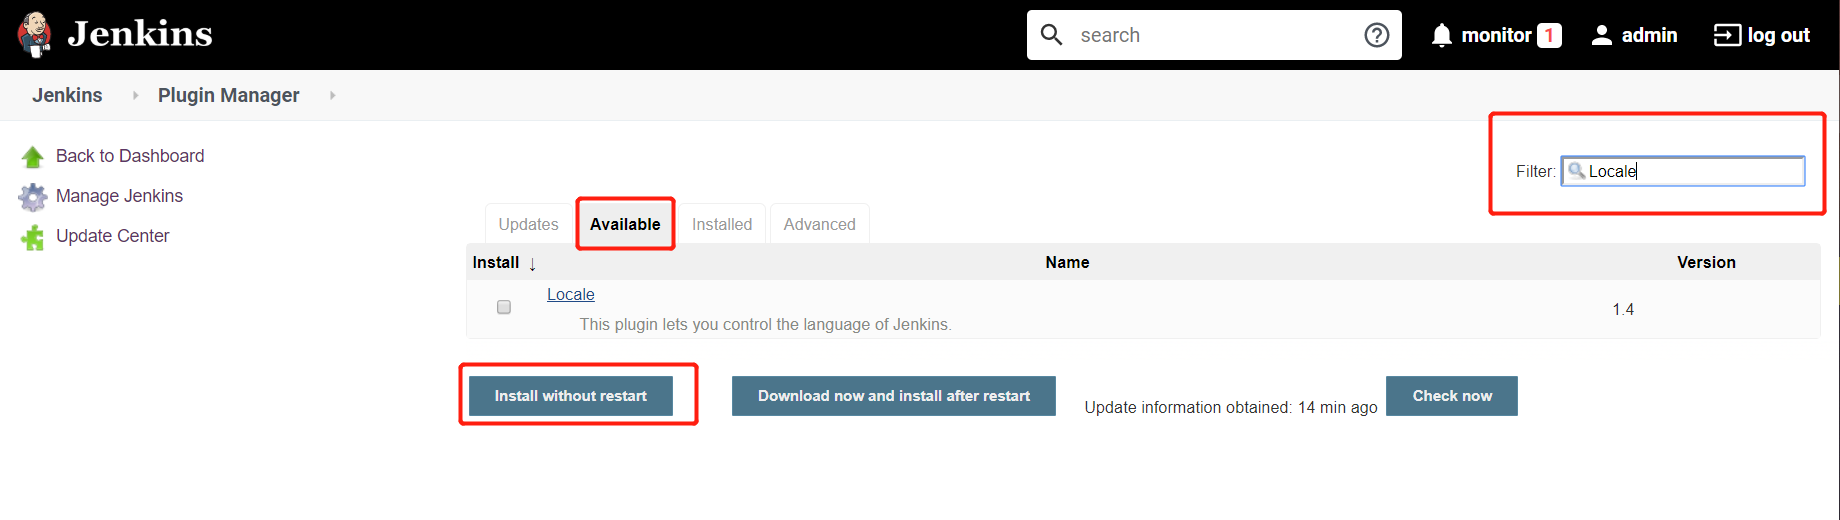
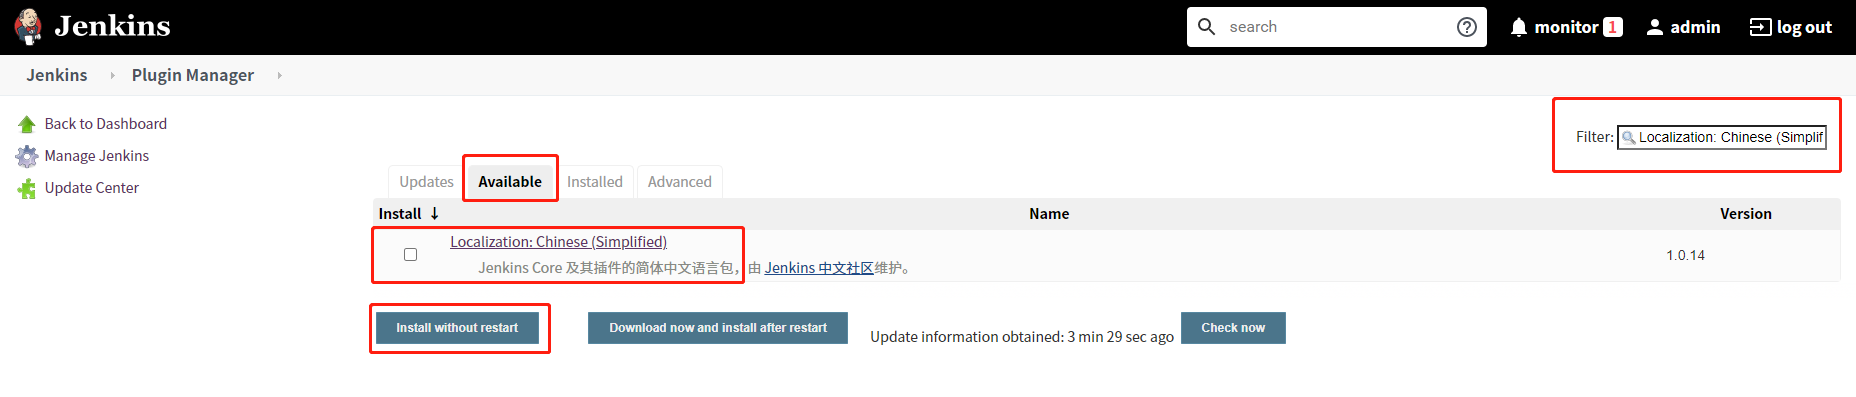
更新jenkins

diff --git a/运维部署篇/02、从零玩转前端部署-使用Jenkins进行自动构建和持续集成(进阶篇)/从零玩转前端部署-使用Jenkins进行自动构建和持续集成(进阶篇).md b/运维部署篇/02、从零玩转前端部署-使用Jenkins进行自动构建和持续集成(进阶篇)/从零玩转前端部署-使用Jenkins进行自动构建和持续集成(进阶篇).md
@@ -1,46 +1,62 @@
-本系列上一篇主要讲了利用Nginx进行简单的静态资源部署，这种方式需要在代码更新以后手动的把代码重新上传到服务器进行部署，方式比较原始。在现代的敏捷式的软件开发和管理中，产品需要快速的进行更新和迭代，传统的迭代和交付方式已无法满足现实的需要。因此，一种新的交付和部署方式就产生了，简称为CI、CD。
+本系列上一篇主要讲了利用 Nginx 进行简单的静态资源部署，这种方式需要在代码更新以后手动的把代码重新上传到服务器进行部署，方式比较原始。在现代的敏捷式的软件开发和管理中，产品需要快速的进行更新和迭代，传统的迭代和交付方式已无法满足现实的需要。因此，一种新的交付和部署方式就产生了，简称为 CI、CD。
 
-# 1、CI/CD和Jenkins的基本认识
+# 1、CI/CD 和 Jenkins 的基本认识
+
 CI/CD 是一种通过在应用开发阶段引入自动化来频繁向客户交付应用的方法。CI/CD 的核心概念是持续集成、持续交付和持续部署。
 “CI”始终指持续集成，它属于开发人员的自动化流程。成功的 CI 意味着应用代码的新更改会定期构建、测试并合并到共享存储库中。该解决方案可以解决在一次开发中有太多应用分支，从而导致相互冲突的问题。
 “CD”指的是持续交付和/或持续部署，指的是自动将开发人员的更改从存储库发布到生产环境，以供客户使用。它主要为了解决因手动流程降低应用交付速度，从而使运维团队超负荷的问题。
-“Jenkins”则是在进行CI/CD的工具之一，也是在进行项目持续集成和部署最常用的工具。
+“Jenkins”则是在进行 CI/CD 的工具之一，也是在进行项目持续集成和部署最常用的工具。
 
 # 2、创建待部署的项目并推送至远程仓库
-## 2.1、使用Vue-Cli创建一个待部署的Vue项目
-* 全局安装vue/@cli
+
+## 2.1、使用 Vue-Cli 创建一个待部署的 Vue 项目
+
+- 全局安装 vue/@cli
+
 ```bash
   npm install -g vue@cli
 ```
-* 使用vue/@cli创建项目
+
+- 使用 vue/@cli 创建项目
+
 ```bash
   vue create jenkins-demo
 ```
-* 运行项目
+
+- 运行项目
+
 ```bash
   cd jenkins-demo
   npm run serve
 ```
-此时，在浏览器url输入localhost:8080就可以访问到刚才创建的初始化项目了。
+
+此时，在浏览器 url 输入 localhost:8080 就可以访问到刚才创建的初始化项目了。
 
 ## 2.2、创建一个远程仓库并将项目代码推送至远程仓库
-* 在码云/github/gitlab上创建一个项目
-* 在本地项目文件夹下执行如下命令，将本地仓库和远程仓库进行关联
+
+- 在码云/github/gitlab 上创建一个项目
+- 在本地项目文件夹下执行如下命令，将本地仓库和远程仓库进行关联
+
 ```bash
   git remote add origin https://gitee.com/Ron_wu/jenkins-demo.git
 ```
-* 将本地仓库代码推送到远程仓库
+
+- 将本地仓库代码推送到远程仓库
+
 ```bash
   git push origin master
 ```
 
-# 3、使用Jenkins进行持续集成
-## 3.1、Jenkins环境搭建
-* 准备工作
-阿里云服务器一台，我这里是使用的是`aliyun Centos 7`，并使用`XShell`登录阿里云服务器。
+# 3、使用 Jenkins 进行持续集成
 
-* 安装Java JDK
-`jenkins`工具是由`java`编写的，依赖于`java`环境，因此需要安装`java jdk`。
+## 3.1、Jenkins 环境搭建
+
+### 准备工作
+  阿里云服务器一台，我这里是使用的是`aliyun Centos 7`，并使用`XShell`登录阿里云服务器。
+
+### 安装 Java JDK
+  `jenkins`工具是由`java`编写的，依赖于`java`环境，因此需要安装`java jdk`。
+
 ```bash
 // 进入cd usr/local/src/ 目录
 cd usr/local/src/
@@ -54,77 +70,96 @@ tar -xzvf jdk1.8.0_211.tar.gz
 mkdir /usr/java
 // 将解压后的文件夹拷贝到/usr/java目录下,-r 表示拷贝文件夹
 cp -r jdk1.8.0_211 /usr/java
-// 建立软链接 
+// 建立软链接
 // 建立软链接后可以不用配环境变量，指定一个路径到bin目录，在任何目录执行java命令时会默认去找/usr/bin/java目录，但是该目录没有jdk，就会找不到，通过软连接的方式，当执行java命令会去/usr/java/jdk1.8.0_22/bin/java
 ln -s /usr/java/jdk1.8.0_211/bin/java /usr/bin/java
 ```
-* 安装Jenkins
+
+### 安装 Jenkins
+
 ```bash
 // 添加jenkins安装源
 wget -O /etc/yum.repos.d/jenkins.repo https://pkg.jenkins.io/redhat-stable/jenkins.repo
 // 导入key验证安装源是否合法
 rpm --import https://pkg.jenkins.io/redhat-stable/jenkins.io.key
 // 安装
-yum install -y jenkins 
+yum install -y jenkins
 ```
-* 启动Jenkins
+
+### 启动 Jenkins
+
 ```bash
 service jenkins start
 ```
-* 查看Jenkins是否启动成功
+
+### 查看 Jenkins 是否启动成功
 
 执行启动命令`service jenkins start`后，正常会是下面的状态：
 <img src="./img/jenkins01.png" width='100%'>
 也可以通过如下命令查看：
+
 ```bash
 service jenkins status
 ```
+
 显示如下则为启动成功：
 <img src='./img/jenkins02.png' width="100%">
 
 然后，就可以在浏览器通过`ip`访问了，默认是`8080`端口，如`8080`端口未被占用，通过`ip`访问会出现以下界面：
 <img src="./img/jenkins03.png" width="100%">
 
-* 查看端口是否被占用
+### 查看端口是否被占用
 
 如通过`ip`无法访问，则可通过以下命令查看`8080`端口是否被占用：
+
 ```bash
 netstat -ntlp
 ```
 
-* 修改默认端口
-如果`80`端口被占用，则需要修改`jenkins`默认端口号。`jenkins`配置文件默认安装在`/etc/sysconfig/jenkins`,通过`vim`编辑器打开即可修改。
+### 修改默认端口
+  如果`80`端口被占用，则需要修改`jenkins`默认端口号。`jenkins`配置文件默认安装在`/etc/sysconfig/jenkins`,通过`vim`编辑器打开即可修改。
+
 ```bash
 vim /etc/sysconfig/jenkins
 ```
+
 进行如下修改：
 <img src='./img/jenkins04.png' width="100%">
 
 保存后执行重启命令：
+
 ```bash
 service jenkins restart
 ```
+
 然后在浏览器通过`ip:端口号`访问即可出现上面解锁界面，则说明端口号修改成功。
 
 `ps`：如果还是无法访问，则要查看阿里云的安全策略组端口是否开放，如果没有开放给则需要登录阿里云后台配置安全策略组开放对应端口。
 
-* 获取解锁密码
-`jenkins`初始页面的解锁密码放在`/var/lib/jenkins/secrets/initialAdminPassword`文件内，通过`vim`编辑器打开查看。
+### 获取解锁密码
+  `jenkins`初始页面的解锁密码放在`/var/lib/jenkins/secrets/initialAdminPassword`文件内，通过`vim`编辑器打开查看。
+
 ```bash
 vim /var/lib/jenkins/secrets/initialAdminPassword
 ```
-将获取到的密码填入浏览器`jenkins`初始页面的密码输入框内，点击继续即可进入到`jenkins`插件配置界面。
+
+将获取到的密码填入浏览器`jenkins`初始页面的密码输入框内，点击继续即可进入到`jenkins`插件配置界面。为了更加清楚的知道`Jenkins`常用的插件有哪些，以及每个插件的作用，我们这里这里选择第二个选项`选择插件来安装`。
 <img src="./img/jenkins05.png" width="100%">
 
-## 3.2、Jenkins插件配置
-为了更加清楚的知道`Jenkins`常用的插件有哪些，以及每个插件的作用，我们这里这里选择第二个选项`选择插件来安装`，选择之后会进入到一个选择安装插件的界面，这里我们也选择`无`，具体需要是由的插件我们后续可以通过管理页面去安装，选择`继续`后，就出现了下面创建第一个用户的界面：
-<img src="./img/jenkins06.png" width="100%"> 
+### 创建初始管理员用户
+
+选择`选择插件来安装`后，会进入到一个选择安装插件的界面，这里我们也选择`无`，具体需要的插件我们后续可以通过管理页面去安装，选择`继续`后，就出现了下面创建第一个用户的界面：
+<img src="./img/jenkins06.png" width="100%">
 
 我们创建一个`admin`账户并设置密码，然后保存就进入`Jenkins`就绪页面。
 <img src="./img/jenkins07.png" width="100%">
 
 点击`开始使用Jenkins`后就默认使用`admin`账号登录进入到主界面。
 <img src="./img/jenkins08.png" width="100%">
+
+至此，`Jenkins`平台的搭建就完成了！具体功能则交给相关的插件。
+
+## 3.2、Jenkins 插件配置
 
 `Jenkins`其实只是一个平台，实现不同功能主要依靠的是插件，下面我们就来了解下，使用`Jenkins`构建必不可少的插件。安装插件可在如下路径操作：
 `Manage Jenkins` -> `Manage Plugins` 界面，我们之前进入时是`选择插件来安装`,所以默认是没有任何插件的。
@@ -133,18 +168,27 @@ vim /var/lib/jenkins/secrets/initialAdminPassword
 需要使用的插件，我们需要通过搜索框搜索自己需要的插件来安装。
 <img src="./img/jenkins10.png" width="100%">
 
-* Locale 
-汉化插件，`Jenkins`默认是英文界面，如果需要使用中文界面就需要安装此插件。
-安装完成之后，进入到`Manage Jenkins->Configure System`界面，你会发现多了`Local`一栏，进行如下设置：
+### Localization: Chinese (Simplified)
+  汉化插件，`Jenkins`默认是英文界面，如果需要使用中文界面就需要安装此插件。
 
 <img src="./img/jenkins11.png" width="100%">
 
-然后点击`save`保存，在浏览器地址栏端口号后加上`/restart`重启`Jenkins`即可，也可以通过命令行`service jenkins restart`重启。
+在安装界面可以勾选上安装完成后自动重启。
+<img src="./img/jenkins12.png" width="100%">
 
-  `ps`这个插件需要依赖到其他插件，因此安装完之后你会发现已安装界面有很多不认识的插件，不用管它们。
+也可以安装完成之后，在浏览器地址栏端口号后加上`/restart`重启`Jenkins`即可，也可以通过如下命令行重启：
+```bash
+service jenkins restart
+```
+
+之后，重新登陆`Jenkins`界面就会变成全中文界面。
+<img src="./img/jenkins13.png" width="100%">
+
+`ps`这个插件需要依赖到其他插件，因此安装完之后你会发现已安装界面有很多不认识的插件，不用管它们。
 
 
 
 
 
+## 3.3、创建任务
 

diff --git a/React系列篇/06、从零开始搭建React项目实战.md b/React系列篇/06、从零开始搭建React项目实战.md
@@ -1,0 +1,1 @@
+# 
